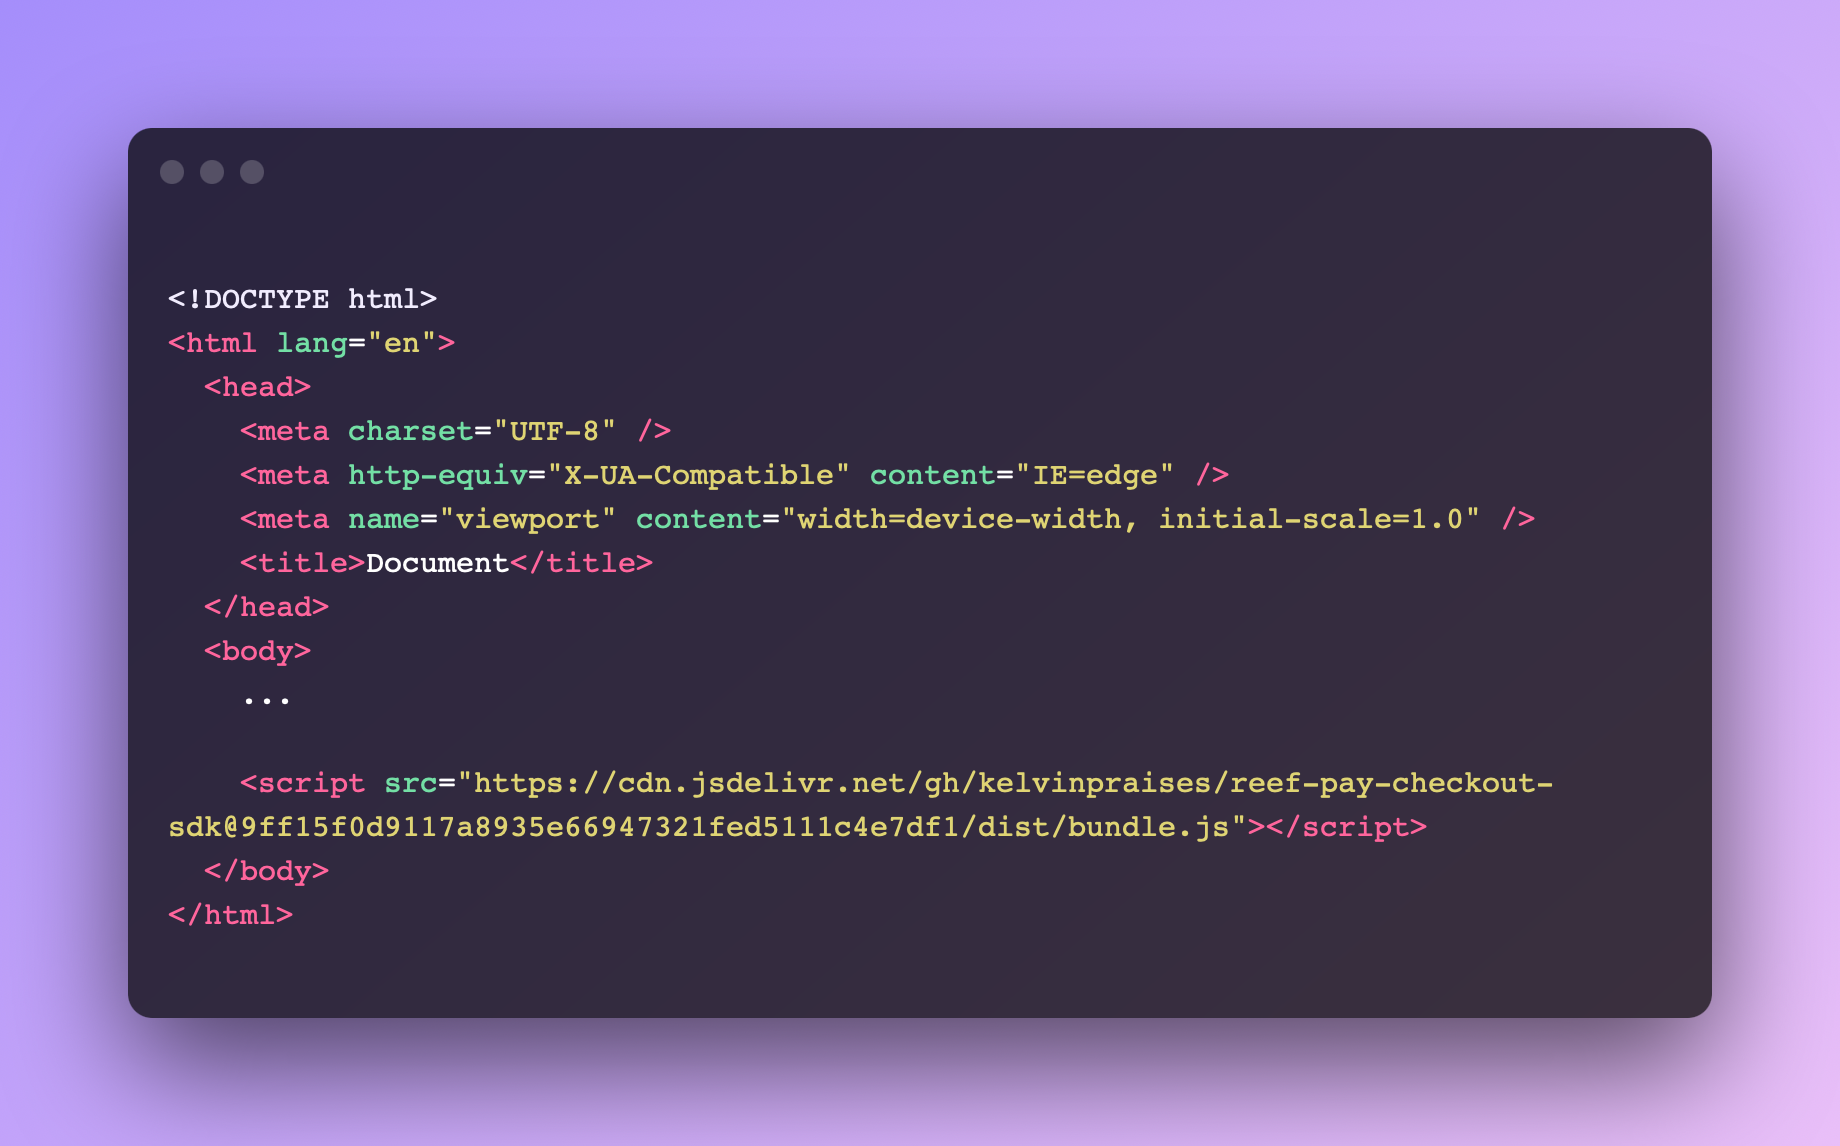
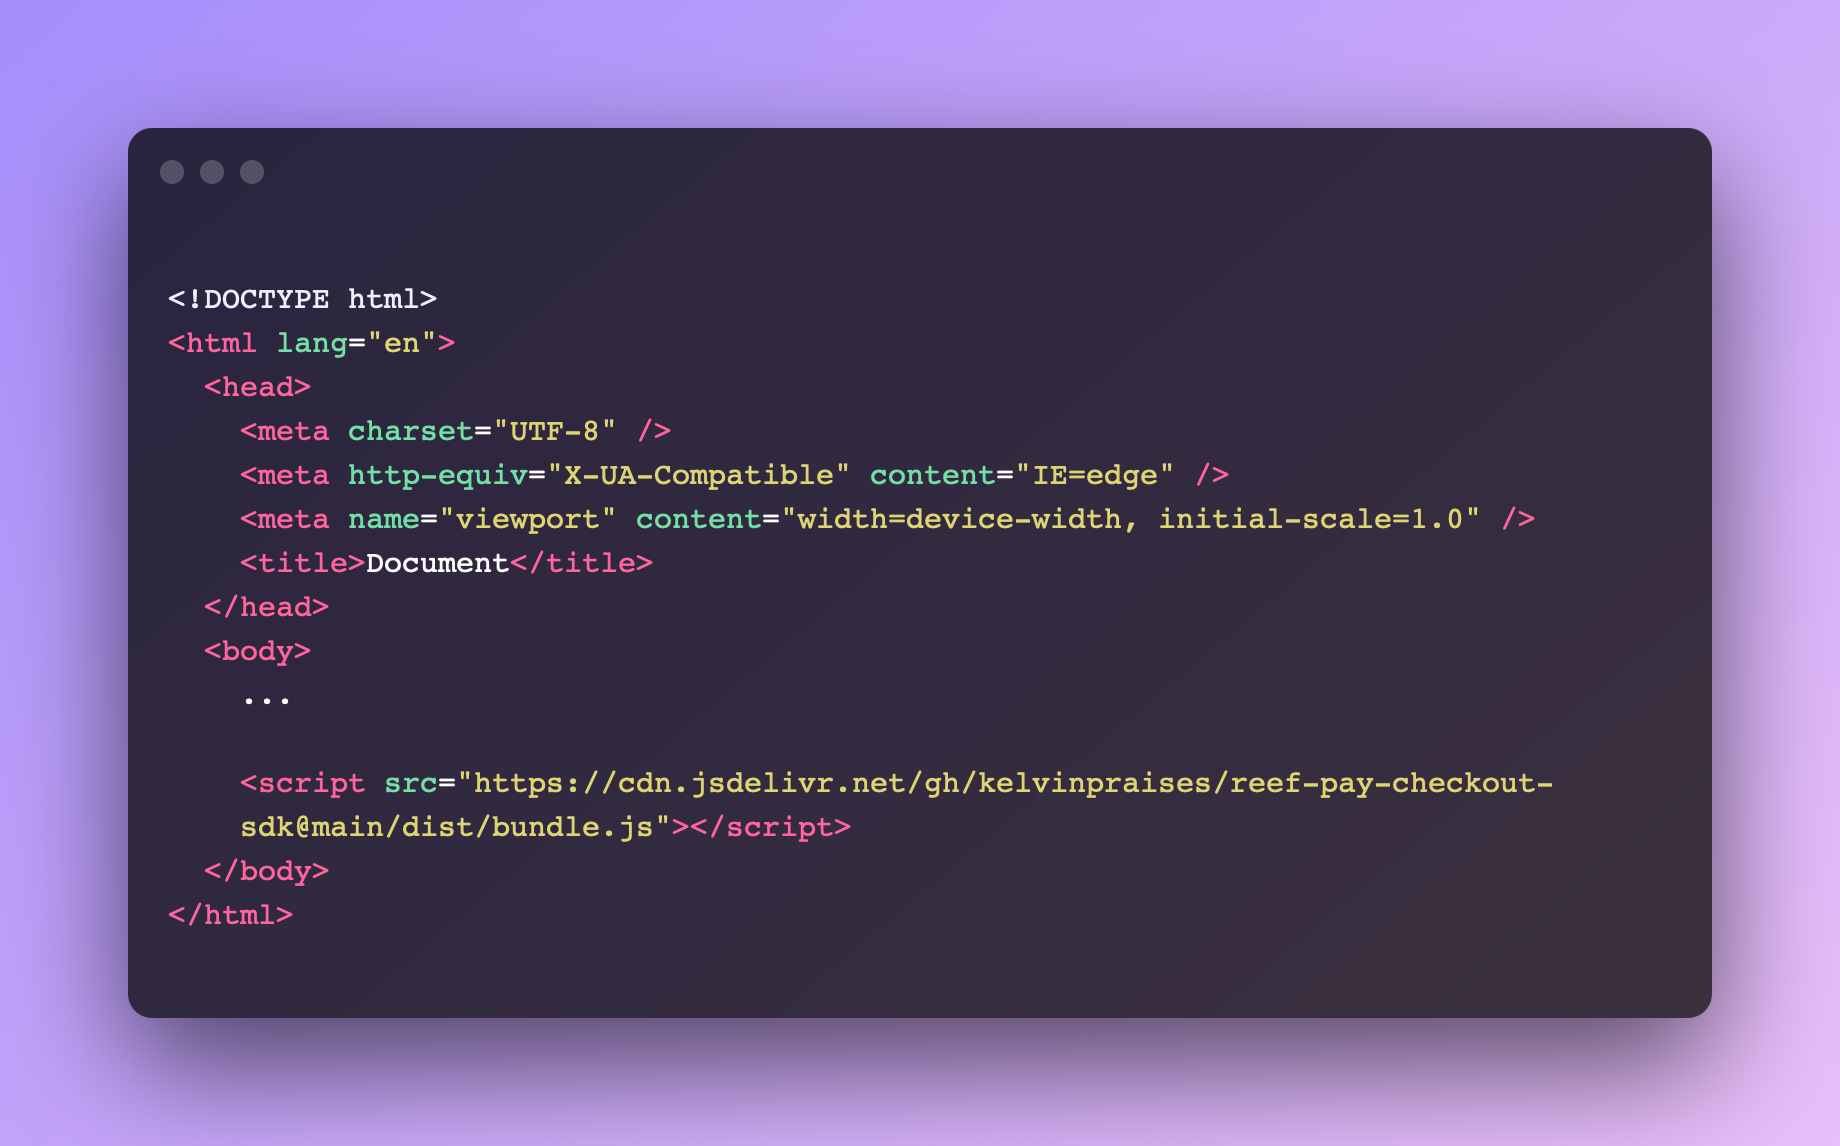
added new components

Changed region(s): [[0.0929, 0.7024, 0.7745, 0.733]]

diff --git a/pages/documentation/checkout-integration.tsx b/pages/documentation/checkout-integration.tsx
@@ -36,7 +36,7 @@ const SText = styled.div`
   color: white;
   margin-bottom: 1em;
   font-size: 20px;
-  line-height: 1.4em;
+  line-height: 1.7;
 `;
 
 const SContent = styled.div`
@@ -64,8 +64,8 @@ const CheckoutIntegration: NextPage = () => {
           <SText>
             Checkout enable merchants to quicky accept payments in reef without
             the need for an intermediary server, while Quickshops is a service
-            under Checkout that groups items with fixed prices that don't change
-            often under a shop. You can create as much shops for as much
+            under Checkout that groups items with fixed prices that don&apos;t
+            change often under a shop. You can create as much shops for as much
             services you need to charge in reef.
           </SText>
         </SContainer>
@@ -90,18 +90,76 @@ const CheckoutIntegration: NextPage = () => {
 
         <SContainer>
           <SHeader>Integrate the SDK in your website</SHeader>
-          <SText>1. Copy shop configuration from checkout shop.</SText>
+          <SText>
+            1. Copy the shops configuration from checkout by clicking &quot;Shop
+            Config&quot; button.
+          </SText>
+          <SContent>
+            <SImg src="/assets/example config.png" alt="" />
+            <SImgText>An Example Quickshop Config</SImgText>
+          </SContent>
           <SText>
             2. Add the JavaScript SDK CDN link as the first script tag to your
-            website.
+            website.{" "}
+            <span style={{ color: "goldenrod" }}>
+              https://cdn.jsdelivr.net/gh/kelvinpraises/reef-pay-checkout-sdk@main/dist/bundle.js
+            </span>
           </SText>
-          <SText style={{ color: "goldenrod" }}>
-            https://cdn.jsdelivr.net/gh/kelvinpraises/reef-pay-checkout-sdk@9ff15f0d9117a8935e66947321fed5111c4e7df1/dist/bundle.js
-          </SText>
+
           <SContent>
             <SImg src="/assets/sdk.png" alt="" />
             <SImgText>Example Code Snippet Using SDK</SImgText>
           </SContent>
+          <SText>
+            3. Pass the configuration copied in{" "}
+            <span style={{ fontWeight: "bold" }}>Step 1</span> to the SDK{" "}
+            <span style={{ fontWeight: "bold", color: "goldenrod" }}>
+              initializeShop
+            </span>{" "}
+            function to initialize the shop. The{" "}
+            <span style={{ fontWeight: "bold", color: "goldenrod" }}>
+              initializeShop
+            </span>{" "}
+            function returns a{" "}
+            <span style={{ fontWeight: "bold", color: "goldenrod" }}>
+              Checkout
+            </span>{" "}
+            function which accepts an{" "}
+            <span style={{ fontWeight: "bold" }}>itemId</span> parameter.
+          </SText>
+          <SContent>
+            <SImg src="/assets/initialize shop.png" alt="" />
+            <SImgText>Initialize SDK to get Checkout Function</SImgText>
+          </SContent>
+          <SText>
+            4. Call the{" "}
+            <span style={{ fontWeight: "bold", color: "goldenrod" }}>
+              Checkout
+            </span>{" "}
+            function with the <span style={{ fontWeight: "bold" }}>itemId</span>{" "}
+            in an onclick event. The{" "}
+            <span style={{ fontWeight: "bold" }}>itemId</span> parameter to be
+            passed is the name of any item in a shop the config got copied from
+          </SText>
+          <SContent>
+            <SImg src="/assets/checkout.png" alt="" />
+            <SImgText>Call Checkout To Initialize Payments</SImgText>
+          </SContent>
+          <SText>
+            5. The{" "}
+            <span style={{ fontWeight: "bold", color: "goldenrod" }}>
+              Checkout
+            </span>{" "}
+            function call opens a{" "}
+            <a
+              href="https://www.reefpay.io/"
+              target="_blank"
+              rel="noopener noreferrer"
+            >
+              reefpay.io
+            </a>{" "}
+            payment link for the shop&apos;s item
+          </SText>
         </SContainer>
       </SDocumentation>
     </div>

diff --git a/components/Modal/SignupModal.tsx b/components/Modal/SignupModal.tsx
@@ -2,15 +2,15 @@ import {
   Auth,
   createUserWithEmailAndPassword,
   getAuth,
-  updateProfile,
+  updateProfile
 } from "firebase/auth";
+import { doc, Firestore, getFirestore, setDoc } from "firebase/firestore";
 import React, { useCallback, useEffect, useState } from "react";
 import styled, { keyframes } from "styled-components";
 import { almostBlack, darkBlue } from "../../constant/colors";
 import app from "../../firebase/clientApp";
 import Button from "../Button";
 import BaseModal from "./BaseModal";
-import { doc, Firestore, getFirestore, setDoc } from "firebase/firestore";
 
 const spin = keyframes`
   0% { transform: rotate(0deg); }
@@ -25,15 +25,6 @@ const SSignupModal = styled.div`
   padding: 35px;
   background-color: ${darkBlue};
   border-radius: 25px;
-`;
-
-const SLoader = styled.div`
-  border: 5px solid #f3f3f3;
-  border-radius: 50%;
-  border-top: 5px solid ${almostBlack};
-  min-width: 30px;
-  min-height: 30px;
-  animation: ${spin} 2s linear infinite;
 `;
 
 const SInput = styled.input`
@@ -72,7 +63,6 @@ export default function SignupModal({
     const auth = getAuth(app);
     auth && setAuth(auth);
   }, []);
-
 
   useEffect(() => {
     const db = getFirestore(app);
@@ -169,8 +159,4 @@ export default function SignupModal({
       </SSignupModal>
     </BaseModal>
   );
-}
-
-{
-  /* <SLoader style={{ display: loading ? "block" : "none" }} /> */
 }

diff --git a/components/Modal/AddShopModal.tsx b/components/Modal/AddShopModal.tsx
@@ -4,18 +4,6 @@ import { almostBlack, darkBlue } from "../../constant/colors";
 import LinkedButton from "../LinkButton";
 import BaseModal from "./BaseModal";
 
-const Panel = styled.div`
-  display: flex;
-  justify-content: center;
-  align-items: center;
-  flex-direction: column;
-  margin: 0.5em 1em;
-  padding: 1.7em;
-  border-radius: 7.8px;
-  background-color: ${darkBlue};
-  font-size: 1.3em;
-`;
-
 const SSignupModal = styled.div`
   display: flex;
   flex-direction: column;
@@ -40,11 +28,6 @@ const SInput = styled.input`
 
 const Label = styled.label`
   font-size: 24px;
-  color: white;
-`;
-
-const SLink = styled.a`
-  text-decoration: none;
   color: white;
 `;
 

diff --git a/components/Modal/AddItemsModal.tsx b/components/Modal/AddItemsModal.tsx
@@ -2,7 +2,7 @@ import { Auth, getAuth } from "firebase/auth";
 import { Firestore, getFirestore } from "firebase/firestore";
 import { Functions, getFunctions, httpsCallable } from "firebase/functions";
 import React, { useCallback, useEffect, useState } from "react";
-import styled, { keyframes } from "styled-components";
+import styled from "styled-components";
 import { almostBlack, darkBlue } from "../../constant/colors";
 import app from "../../firebase/clientApp";
 import Button from "../Button";

diff --git a/components/Checkout/CheckoutData.tsx b/components/Checkout/CheckoutData.tsx
@@ -11,13 +11,6 @@ const SCheckoutData = styled.section`
   padding: 3em;
 `;
 
-const SBox = styled.div`
-  height: calc(100vh - 100px - 4.6rem);
-  max-height: 400px;
-  display: grid;
-  place-items: center;
-`;
-
 export default function CheckoutData({ shops }: ICheckoutData) {
   const { tableRows } = useMemo(() => {
     const _shops: any = shops.map(({ items, id, createdAt }) => ({

diff --git a/components/Modal/LoginModal.tsx b/components/Modal/LoginModal.tsx
@@ -1,8 +1,7 @@
 import {
   Auth,
   getAuth,
-  signInWithEmailAndPassword,
-  connectAuthEmulator,
+  signInWithEmailAndPassword
 } from "firebase/auth";
 import React, { useCallback, useEffect, useState } from "react";
 import styled, { keyframes } from "styled-components";

diff --git a/pages/transactions.tsx b/pages/transactions.tsx
@@ -51,7 +51,7 @@ const Transactions: NextPage = () => {
           />
           <link rel="icon" href="/favicon.ico" />
         </Head>
-        <TransactionsData transactions={transactions} />
+        <TransactionsData transactions={[]} />
       </div>
     );
   }

diff --git a/components/Modal/BaseModal.tsx b/components/Modal/BaseModal.tsx
@@ -1,5 +1,4 @@
 import React from "react";
-// import { RiCloseLine } from "react-icons/ri";
 import styled from "styled-components";
 import { almostBlack } from "../../constant/colors";
 
